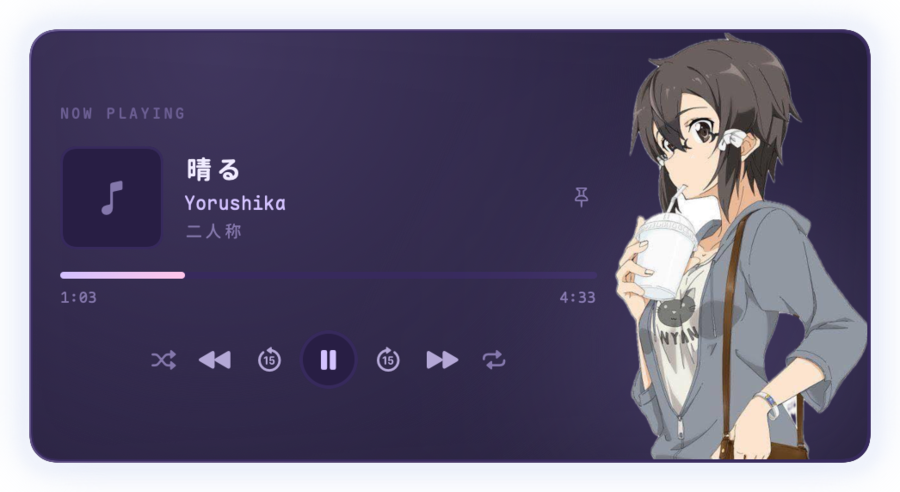
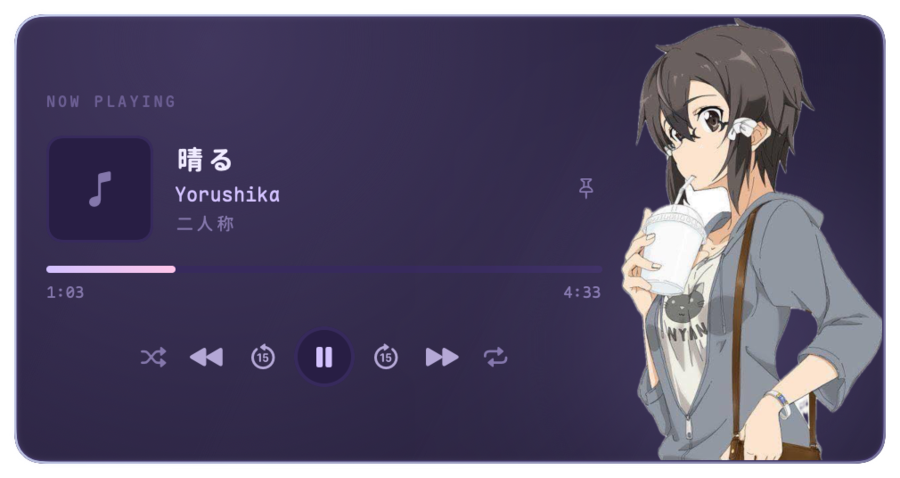
Replace the border bloom with a thin lit edge
The old glow rendered as a soft plastic pipe around the card. It is now a 1.25pt gradient hairline on the border with only a 1.5pt warm halo, it adds no window margin and no longer changes the card size. Settings labels, sizing tests, the docs image and README follow the change.

diff --git a/Sources/ContentView.swift b/Sources/ContentView.swift
@@ -34,20 +34,19 @@ struct ContentView: View {
         Theme.color(hex: config.appearance.glowColor) ?? Theme.glow
     }
 
-    /// Drawn behind the clipped card, so only the bloom outside its edge shows.
-    /// A filled shape gives the halo body; the thin stroke keeps the rim crisp.
-    private var glowLayer: some View {
-        ZStack {
-            shape
-                .fill(glowColor)
-                .blur(radius: 10 + 10 * glowStrength)
-                .opacity(0.6 * glowStrength)
-            shape
-                .strokeBorder(glowColor, lineWidth: 1.5 + glowStrength)
-                .blur(radius: 2 + 3 * glowStrength)
-                .opacity(0.8 * glowStrength)
-                .padding(-(2 + 3 * glowStrength))
-        }
+    /// A hairline of light along the border: a lit edge, not a bloom.
+    private var glowEdge: some View {
+        shape
+            .strokeBorder(
+                LinearGradient(
+                    colors: [glowColor, glowColor.opacity(0.45)],
+                    startPoint: .topLeading,
+                    endPoint: .bottomTrailing
+                ),
+                lineWidth: 1.25
+            )
+            .shadow(color: glowColor.opacity(0.35 * glowStrength), radius: 1.5)
+            .opacity(glowStrength == 0 ? 0 : 0.35 + 0.65 * glowStrength)
     }
 
     private var metrics: CardMetrics { store.metrics }
@@ -77,7 +76,6 @@ struct ContentView: View {
         )
         .background(background)
         .clipShape(shape)
-        .background(glowLayer)
         .overlay(shape.strokeBorder(Theme.surface1, lineWidth: 2 * max(0.85, metrics.scale)))
         .overlay(
             shape.strokeBorder(
@@ -89,6 +87,7 @@ struct ContentView: View {
                 lineWidth: 1
             )
         )
+        .overlay(glowEdge)
     }
 
     private var background: some View {

diff --git a/tools/selftest/main.swift b/tools/selftest/main.swift
@@ -1,4 +1,4 @@
-// Logic checks for presets, PNG import validation and glow sizing.
+// Logic checks for presets, PNG import validation and card sizing.
 // Runs against an isolated support directory (VODYA_SUPPORT_DIR), never your real config.
 import AppKit
 import Foundation
@@ -88,12 +88,14 @@ check("bad hex rejected", Theme.color(hex: "not-a-colour") == nil)
 store.update { $0.appearance.glowColor = "not-a-colour" }
 check("bad glow colour reset", store.config.appearance.glowColor == "auto")
 
-// Sizing reacts to the glow and to a custom figure.
-let plain = CardMetrics(size: "medium", showFigure: true, figureAspect: 0.5, glowInset: 0)
-let glowing = CardMetrics(size: "medium", showFigure: true, figureAspect: 0.5, glowInset: 6)
+// Sizing follows the figure; the edge light sits on the border and adds no space.
+let plain = CardMetrics(size: "medium", showFigure: true, figureAspect: 0.5)
 let wideFigure = CardMetrics(size: "medium", showFigure: true, figureAspect: 0.9)
-check("glow grows the window", glowing.cardWidth > plain.cardWidth && glowing.cardHeight > plain.cardHeight)
+let noFigure = CardMetrics(size: "medium", showFigure: false, figureAspect: 0.5)
+let tallFigure = CardMetrics(size: "medium", showFigure: true, figureAspect: 0.3)
 check("figure aspect widens the slot", wideFigure.cardWidth > plain.cardWidth)
+check("hiding the figure narrows the card", noFigure.cardWidth < plain.cardWidth)
+check("figure aspect leaves the height alone", tallFigure.cardHeight == plain.cardHeight)
 
 print(failures == 0 ? "ALL PASS" : "\(failures) FAILURE(S)")
 exit(failures == 0 ? 0 : 1)

diff --git a/Sources/CardMetrics.swift b/Sources/CardMetrics.swift
@@ -11,14 +11,11 @@ struct CardMetrics {
     let scale: CGFloat
     let showFigure: Bool
     let figureAspect: CGFloat
-    /// Extra margin so a border glow has room to bloom outside the card.
-    let glowInset: CGFloat
 
     init(
         size: String,
         showFigure: Bool,
-        figureAspect: CGFloat = FigureAsset.aspect,
-        glowInset: CGFloat = 0
+        figureAspect: CGFloat = FigureAsset.aspect
     ) {
         switch Self.normalizedSize(size) {
         case "small": scale = 0.85
@@ -27,7 +24,6 @@ struct CardMetrics {
         }
         self.showFigure = showFigure
         self.figureAspect = min(max(figureAspect, 0.3), 1.5)
-        self.glowInset = min(max(glowInset, 0), 12)
     }
 
     static func normalizedSize(_ raw: String) -> String {
@@ -38,11 +34,11 @@ struct CardMetrics {
         }
     }
 
-    var padding: CGFloat { Self.basePadding * scale + glowInset * scale }
+    var padding: CGFloat { Self.basePadding * scale }
     var contentWidth: CGFloat { Self.baseContentWidth * scale }
     var figureHeight: CGFloat { Self.baseFigureHeight * scale }
     var figureWidth: CGFloat { showFigure ? (figureHeight * figureAspect).rounded() : 0 }
     var cardWidth: CGFloat { (padding * 2 + contentWidth + figureWidth).rounded() }
-    var cardHeight: CGFloat { (Self.baseCardHeight * scale + glowInset * scale * 2).rounded() }
+    var cardHeight: CGFloat { (Self.baseCardHeight * scale).rounded() }
     var size: NSSize { NSSize(width: cardWidth, height: cardHeight) }
 }

diff --git a/Sources/CardConfig.swift b/Sources/CardConfig.swift
@@ -204,13 +204,12 @@ final class CardStore: ObservableObject {
         return size.width / size.height
     }
 
-    /// The single source of truth for card size, including the room a glow needs.
+    /// The single source of truth for card size.
     var metrics: CardMetrics {
         CardMetrics(
             size: config.appearance.size,
             showFigure: config.appearance.showFigure,
-            figureAspect: figureAspect,
-            glowInset: config.appearance.glowEnabled ? 10 * config.appearance.glowStrength : 0
+            figureAspect: figureAspect
         )
     }
 

diff --git a/Sources/PreferencesView.swift b/Sources/PreferencesView.swift
@@ -201,12 +201,12 @@ struct PreferencesView: View {
         }
     }
 
-    // MARK: - Glow
+    // MARK: - Edge light
 
     private var glowSection: some View {
-        section("Glow") {
+        section("Edge light") {
             VStack(alignment: .leading, spacing: 8) {
-                Toggle("Glow around the border", isOn: binding(\.appearance.glowEnabled))
+                Toggle("Light around the border", isOn: binding(\.appearance.glowEnabled))
                     .toggleStyle(.switch)
                     .font(.system(size: 12))
 

diff --git a/README.md b/README.md
@@ -2,7 +2,7 @@
 
 A small "Now Playing" card that floats over your Mac. Album art, title, artist, a
 live scrubber and working controls — and a look you can make your own: swap the
-palette, drop in your own background and character art, colour the border glow,
+palette, drop in your own background and character art, colour the border light,
 then save the whole thing as a preset.
 
 ![Petal theme with artwork](docs/card-petal.png)
@@ -14,11 +14,11 @@ then save the whole thing as a preset.
 - Drag it anywhere, it remembers where it was. Click outside to dismiss.
 - Four palettes (Petal, Soft Purple, Mist, Mono), three sizes, blur or solid.
 - **Your own art**: any PNG as the card background, any PNG as the character.
-- **Border glow**: on/off, 0–100% strength, any colour (or follow the accent).
+- **Edge light**: a thin coloured rim on the border — on/off, adjustable strength and colour.
 - **Presets**: save the current look under a name and recall it in one click.
 - Everything lives in a hand-editable `config.json` that hot-reloads on save.
 
-![Glow](docs/card-glow.png)
+![Edge light](docs/card-glow.png)
 
 ## Install
 
@@ -58,7 +58,7 @@ file and reloads the moment you save.
 
 ### Presets
 
-Pick a palette, size, art and glow you like, then **Save current…** in the
+Pick a palette, size, art and edge light you like, then **Save current…** in the
 Presets row. Presets store the entire appearance (not the pin state or hotkeys)
 in `presets.json` next to the config. Select one and hit **Apply**, or **Delete**
 to remove it. Saving under an existing name overwrites that preset.
@@ -78,12 +78,13 @@ producing a broken card. Images are copied into
 A character PNG wants a transparent background; the bundled one was cut out with
 macOS Vision, and `tools/cutout/` has that tool if you want to process your own.
 
-### Glow
+### Edge light
 
-`Glow around the border` toggles a soft bloom outside the card edge. The slider
-sets how far and how strong it spreads, and the colour well sets its hue —
-**Auto** goes back to following the active accent. The window grows a few points
-when the glow is on so the bloom is never clipped.
+`Light around the border` draws a hairline of colour along the card edge — a lit
+rim, not a bloom, so it never muddies the artwork behind it. The slider sets how
+bright that line is (a faint 35% at zero, full colour at 100%) and the colour
+well sets its hue; **Auto** follows the active accent. It costs no space: the line
+sits on the border, so the card keeps its exact size.
 
 ### Palettes and sizes
 
@@ -140,6 +141,8 @@ Both hotkeys are editable in `config.json` (`behavior.hotkey`,
 }
 ```
 
+`glowEnabled`, `glowStrength` and `glowColor` configure the edge light.
+
 Bad values are repaired rather than fatal: unknown palettes fall back to Petal,
 an unparseable `glowColor` becomes `auto`, and a custom asset file that no longer
 exists is dropped.
@@ -165,7 +168,7 @@ toggles rather than cycling track/playlist.
 
 ## Project layout
 
-- `Sources/ContentView.swift` — the card UI, artwork, scrim and glow
+- `Sources/ContentView.swift` — the card UI, artwork, scrim and edge light
 - `Sources/CardConfig.swift` — config model, store, hot reload, presets
 - `Sources/Assets.swift` — PNG import/validation and the asset cache
 - `Sources/NowPlayingModel.swift` — track model, `media-control` polling, Spotify scripting
@@ -174,7 +177,7 @@ toggles rather than cycling track/playlist.
 - `Sources/Palette.swift`, `Sources/Theme.swift` — colour slots and fonts
 - `Sources/CardMetrics.swift` — every dimension from one scale factor
 - `tools/render-preview.sh` — renders `build/preview-*.png` offline
-- `tools/selftest.sh` — preset / PNG / glow logic checks
+- `tools/selftest.sh` — preset / PNG / sizing logic checks
 - `tools/release.sh` — universal build + zip
 
 ## Tests
@@ -185,7 +188,7 @@ toggles rather than cycling track/playlist.
 
 Runs against a throwaway support directory (`build/selftest-support`) and covers
 PNG-only import (including a renamed JPEG), asset cleanup, preset save/apply/
-delete/overwrite, glow colour parsing and the size maths for glow and custom
+delete/overwrite, edge-light colour parsing and the size maths for custom
 figures. CI runs the build, these checks and the preview renderer.
 
 ## License
